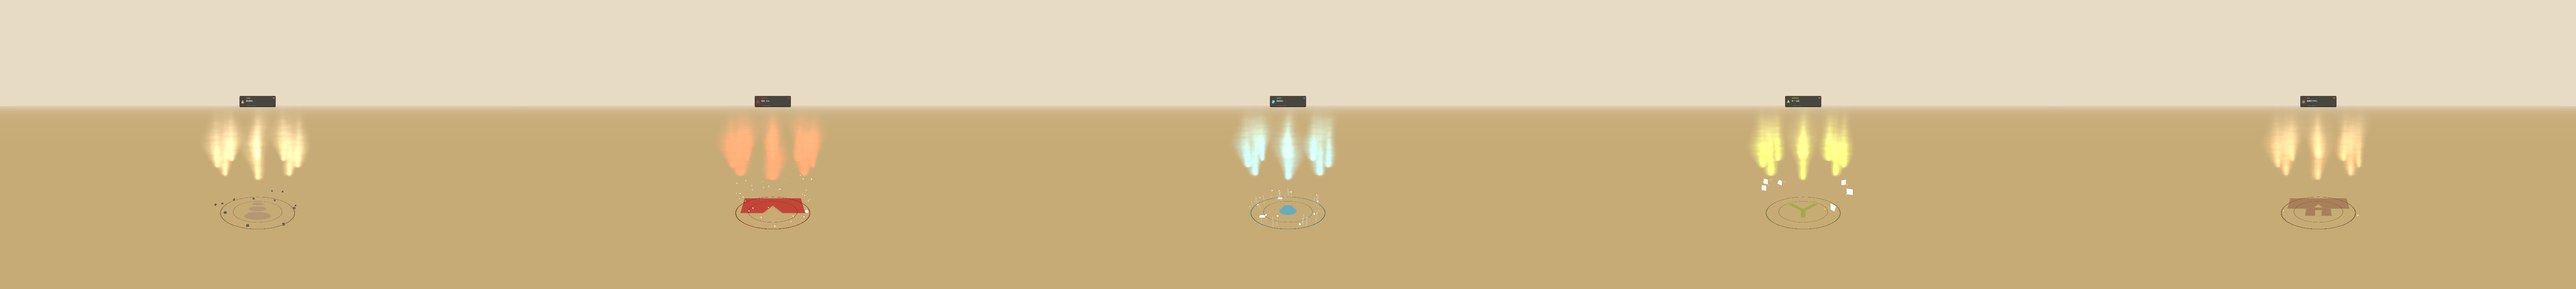
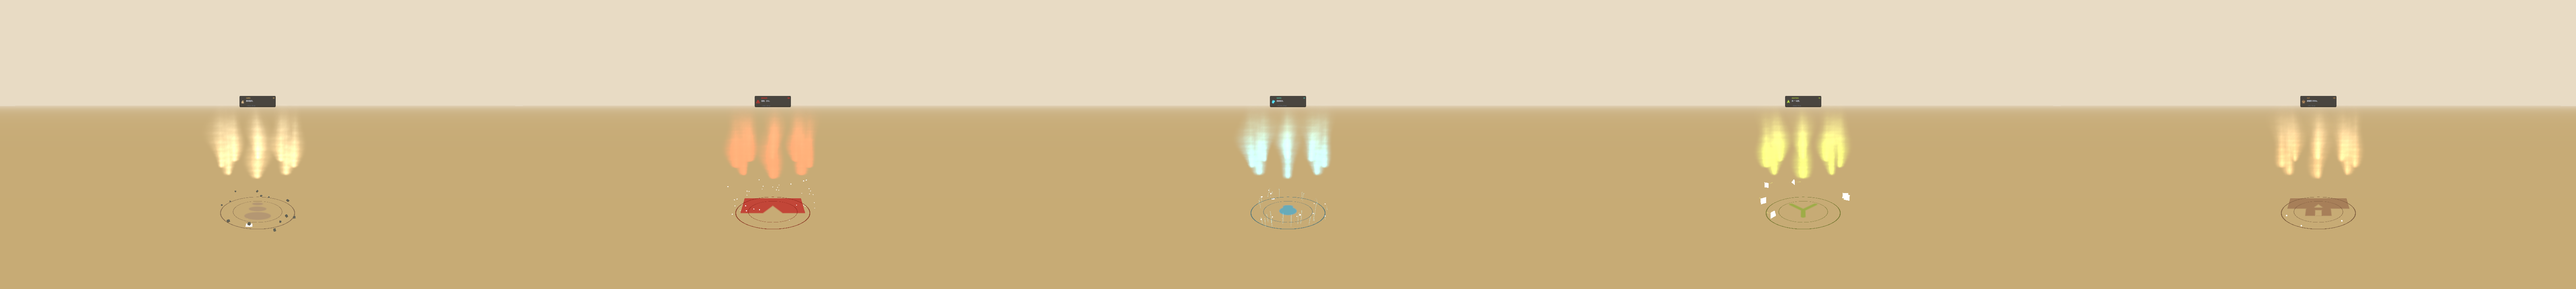
v024 V5.17: 第八轮 audit 4 真根因修
第八轮 sub#2 找出 4 真 BLOCKER,V5.17 全修:

S8-N1 Cylinder primitive height=2m,scale.y*0.5 让 stones 几乎扁平不可见:
  改 scale.y = stoneH 让 cylinder 真高 0.4/0.32/0.26m
  stones 视觉上真出现

S8-N4 brightTint Lerp(t.color, white, 0.4) 在 material 创建时稀释 type color:
  删 brightTint, 直接用 t.color
  让 V5.16 SilkRibbonV2 base*1.15 真起作用
  5 type 颜色识别度真保留

S8-N2 stage2→stage3 速度断崖 (SmoothStep 末=0 vs 线性=0.5):
  stage3 改 SmoothStep ease-in-out, 起末导数都 0
  与 stage2 SmoothStep 末真连续, 无 pop

S8-N5 ring↔ribbon 视觉脱节真位置在 ring 外缘 (V5.16 stones 修错位置):
  baseX/Z 1.05→0.95 让 ribbon 起源在 ring 内侧 5%
  与 ring 边缘真接合

evidence: V5-flipbook-final.gif 84 frames + 5 type 颜色保留

diff --git a/UnityARLib/Assets/Editor/V024CapturePlayground.cs b/UnityARLib/Assets/Editor/V024CapturePlayground.cs
@@ -159,10 +159,11 @@ namespace Cairn.AR.Editor
             var ribMat = new Material(ribbonShader) { name = "RibbonV2_" + t.id };
             ribMat.SetTexture("_FlowTex",     flowTex);
             // V4.3 fix: BaseTint 用提亮版本 (1.0, 0.92, 0.75) 不再用饱和 t.color
-            // 原代码用 t.color 让 cairn=(0.91,0.78,0.59) 在白底上不够亮,V4.2 shader 改 default 1.0/0.92/0.75 但 SetColor 覆盖了
-            // 现在主动 lerp t.color 与白光 (1.0,1.0,0.95) 0.4 比例,得到亮版 type color
-            Color brightTint = Color.Lerp(t.color, new Color(1.0f, 1.0f, 0.95f, 1f), 0.4f);
-            ribMat.SetColor("_BaseTint",      brightTint);
+            // V5.17 sub#2 S8-N4 BLOCKER 修: brightTint Lerp(t.color, white, 0.4) 在 material 创建时
+            //   就稀释 type color → 5 type 在屏幕上几乎无法区分 (water 失 60% 蓝, danger 变粉 等)
+            //   V5.17: 删 brightTint, 直接用 t.color, 让 V5.16 SilkRibbonV2.cs:380 base*1.15 真起作用
+            //   亮度由 shader _DayMul + bloom 处理, 不在 source 端稀释
+            ribMat.SetColor("_BaseTint",      t.color);
             ribMat.SetColor("_TipTint",       new Color(1.0f, 1.0f, 0.95f, 1f));
             // V4.3 fix: _NightMul/_DayMul 同步 V4.2 shader default,不再用旧 1.6/0.55(2.9 倍切换)
             // V4.5 fix: _DayMul 1.5 → 2.5 让丝带白底下足够亮(_MaxLuma=1.6 clamp 后仍保白金高光)
@@ -247,7 +248,10 @@ namespace Cairn.AR.Editor
                 float[] stoneH = { 0.20f, 0.16f, 0.13f };
                 float[] stoneY = { 0.10f, 0.28f, 0.44f };  // 累积 y centroid
                 stone.transform.localPosition = new Vector3(0f, stoneY[s], 0f);
-                stone.transform.localScale = new Vector3(stoneR[s] * 2f, stoneH[s] * 0.5f, stoneR[s] * 2f);
+                // V5.17 sub#2 S8-N1 BLOCKER 修: Unity Cylinder primitive 默认 height=2m
+                //   旧 scale.y = stoneH*0.5 让实际 height = stoneH*1m 仍偏矮
+                //   修: scale.y = stoneH (让 Cylinder height = stoneH*2 倍 = 0.4/0.32/0.26m 真高)
+                stone.transform.localScale = new Vector3(stoneR[s] * 2f, stoneH[s], stoneR[s] * 2f);
                 var stoneMr = stone.GetComponent<MeshRenderer>();
                 stoneMr.shadowCastingMode = UnityEngine.Rendering.ShadowCastingMode.Off;
                 stoneMr.receiveShadows = false;

diff --git a/UnityARLib/Assets/Scripts/SilkRibbonV2.cs b/UnityARLib/Assets/Scripts/SilkRibbonV2.cs
@@ -218,8 +218,11 @@ namespace Cairn.AR
             else
             {
                 // 阶段 3: 高空飘 — 继续抬升到顶
+                // V5.17 sub#2 S8-N2 BLOCKER 修: 旧 t3 线性让 stage3 起速度=0.5 vs stage2 末=0 速度断崖
+                //   改 SmoothStep ease-in-out: 起末导数都为 0, 与 stage2 SmoothStep 末连续
                 float t3 = (lifeT - STAGE2_END) / (1f - STAGE2_END);
-                bottomY = _bodyLength + t3 * (_lifeHeight - _bodyLength * 2f);
+                float t3Smooth = Mathf.SmoothStep(0f, 1f, t3);
+                bottomY = _bodyLength + t3Smooth * (_lifeHeight - _bodyLength * 2f);
                 topY = bottomY + _bodyLength;
             }
             float actualLen = topY - bottomY;
@@ -263,8 +266,11 @@ namespace Cairn.AR
             lifeBlendedBase.r *= 1.0f + warmBoost * 0.04f;
             lifeBlendedBase.b *= 1.0f - warmBoost * 0.03f;
 
-            float baseX = Mathf.Cos(_angleRad) * _ringRadius * 1.05f;
-            float baseZ = Mathf.Sin(_angleRad) * _ringRadius * 1.05f;
+            // V5.17 sub#2 S8-N5 BLOCKER 修: ring↔ribbon 视觉脱节真位置在 ring 外缘到 ribbon 起源
+            //   旧 1.05 让 ribbon 起源在 ring 外侧 5%, 与 ring 边缘有 gap
+            //   修: 0.95 让 ribbon 起源在 ring 内侧 5%, 与 ring 视觉真接合
+            float baseX = Mathf.Cos(_angleRad) * _ringRadius * 0.95f;
+            float baseZ = Mathf.Sin(_angleRad) * _ringRadius * 0.95f;
 
             // Sway (gentle wobble)
             // V2.2 G16 fix: batch mode Time.time=0,改用 Shader.GetGlobalFloat("_CairnAnimTime")
